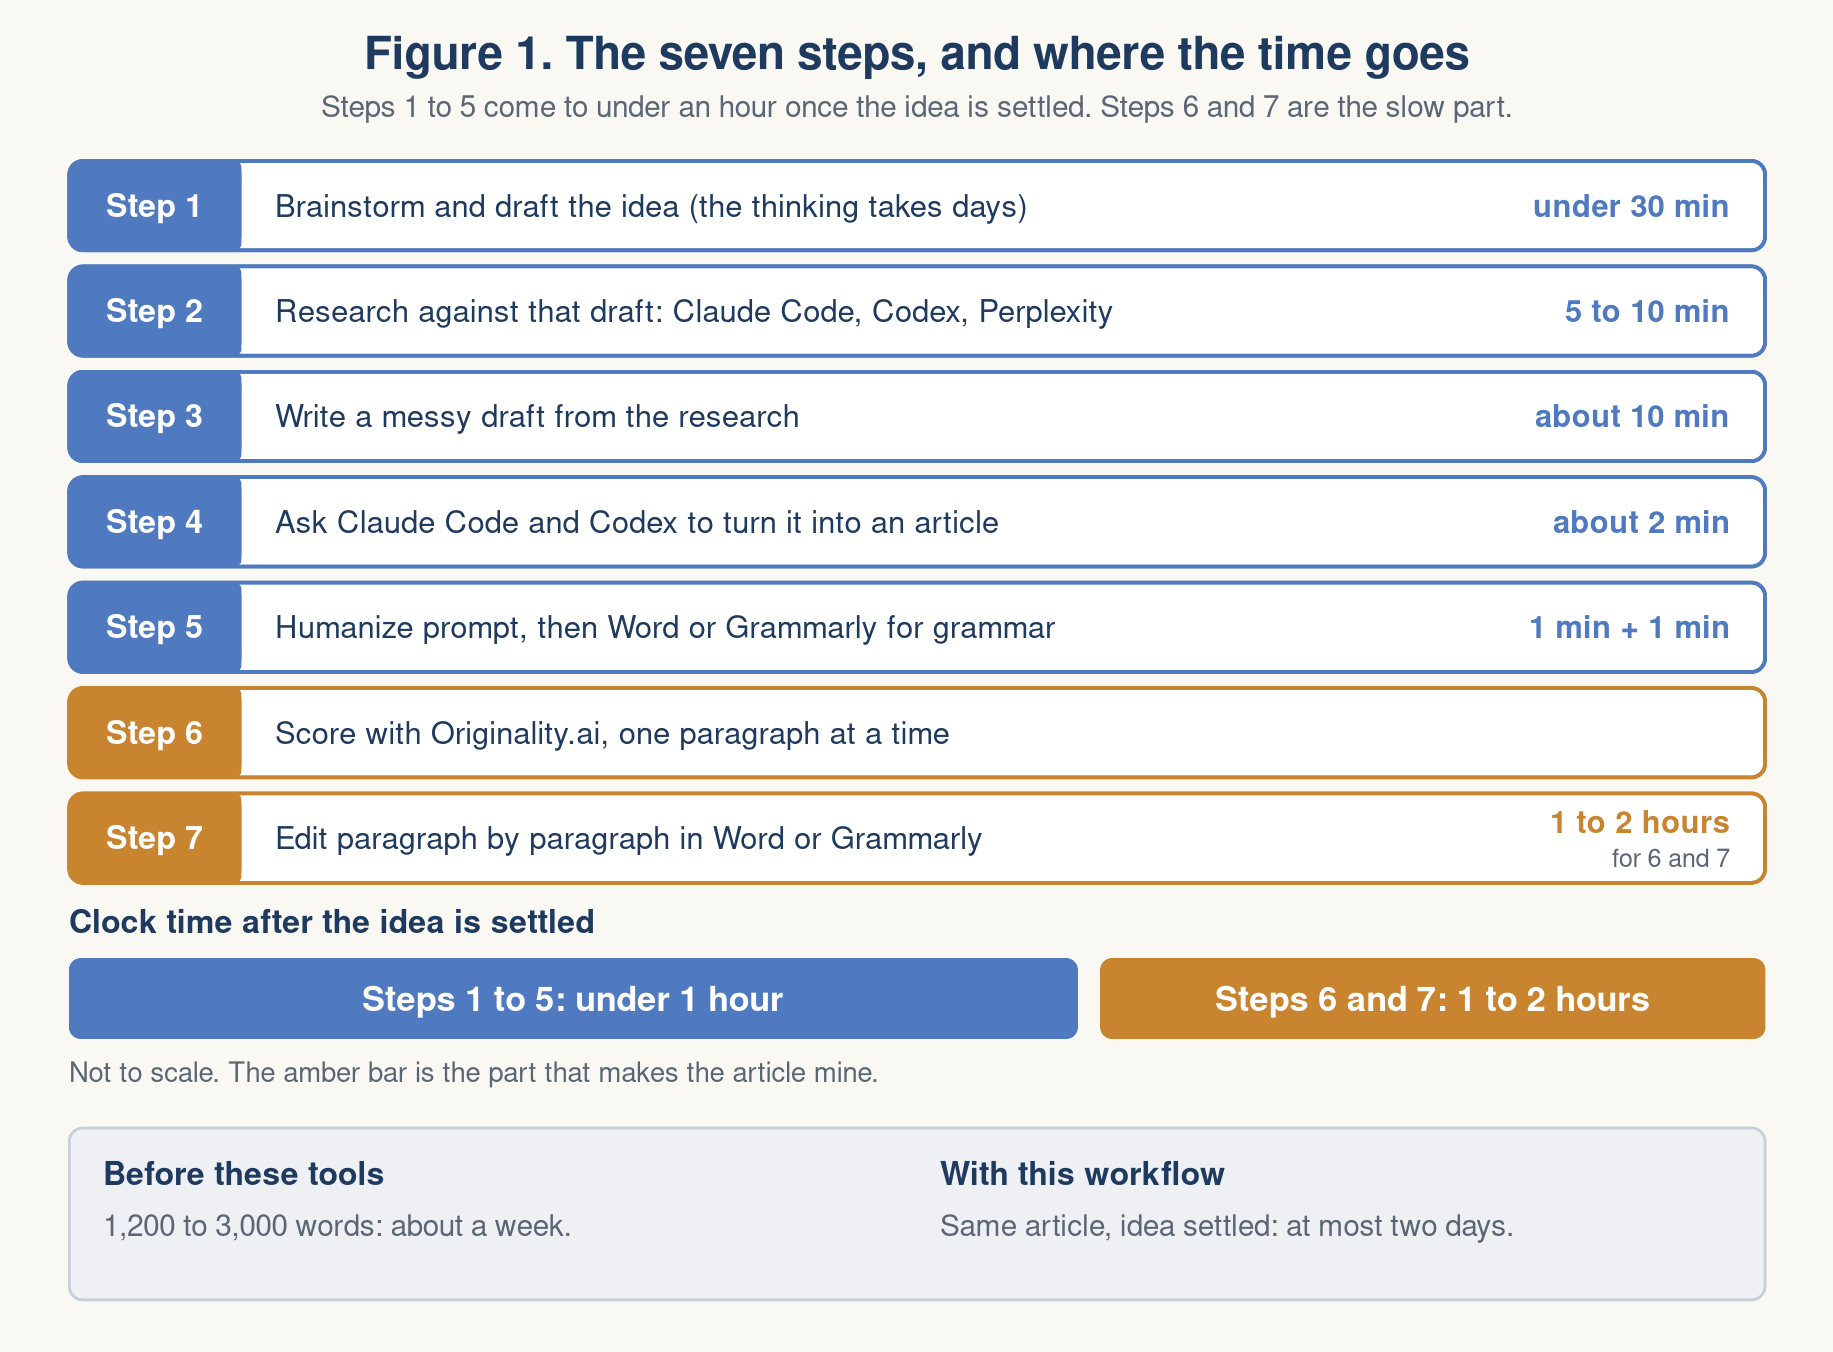
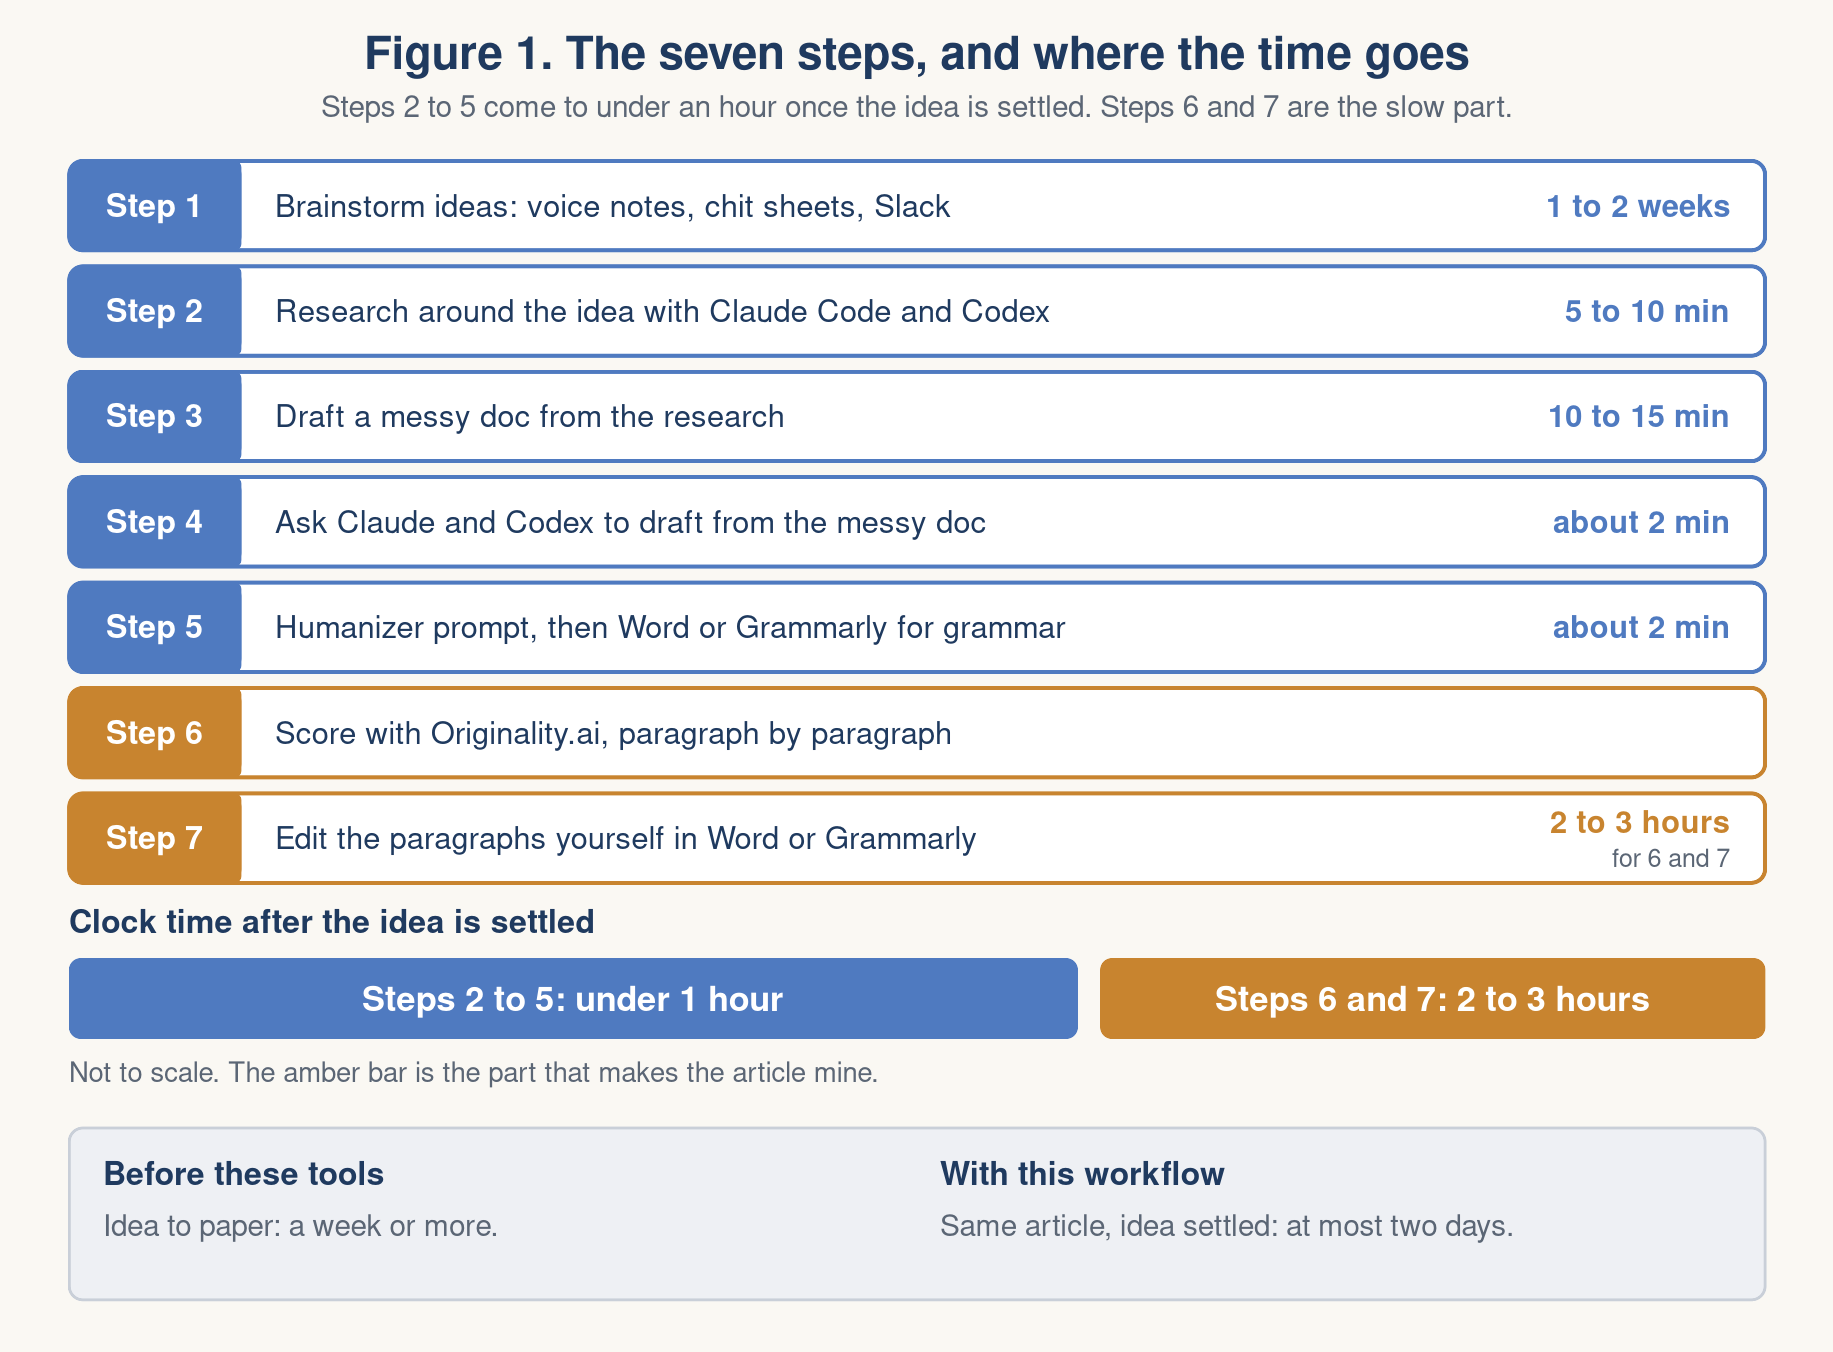
Article: fix step range, detector attribution, ACM claim, Grok name; Figure 1 matches the text

diff --git a/content/posts/humanize-with-ai.md b/content/posts/humanize-with-ai.md
@@ -11,7 +11,7 @@ images:
 
 ![A desk with a laptop showing a markdown draft in VS Code, a red pen, and a small robot handing over a page](/posts/humanize-with-ai/lead.png)
 
-*1,934 words · 10 min read*
+*1,929 words · 10 min read*
 
 *Disclaimer: This post reflects my personal views and does not represent the views of my employer or my community.*
 
@@ -41,13 +41,13 @@ As back in the golden writing days - when a typewriter was the tool that enabled
 6. Score the draft with an AI moderator paragraph by paragraph. I use [Originality.ai](https://originality.ai) as it is the best I have seen on the market. It has amazing features to highlight AI slop and plagiarism visually (and more importantly, it doesn't promise you options to fix the AI writing - because you can't really ask AI not to write AI; similarly, you can't ask a human being not to be a human).
 7. Edit the paragraphs in your editor (Word or Grammarly) till you get a personal and unique doc translating your creative idea into a unique document.
 
-Steps 1 to 5 take under an hour, while Steps 6 and 7 are the time sink and can easily take 2-3 hours. But the process is essential to make it a human-written article, instead of the dryness and verbosity that comes from blind AI write-ups.
+Steps 2 to 5 take under an hour, while Steps 6 and 7 are the time sink and can easily take 2-3 hours. But the process is essential to make it a human-written article, instead of the dryness and verbosity that comes from blind AI write-ups.
 
 **Explain it to a ten-year-old.** The robot can build the Lego set fast. I still take every brick off the table and put it back by hand. That is the slow part, and it is the part that makes it my house.
 
 ## Removing the AI Grammar From the Draft
 
-The AI detector is just a detector - it shows you where to look. Tools like Originality.ai use a custom language model [1] (funny, isn't it, an AI auditing another AI language - a swarm of agents: one is writing, the other is checking for errors), which measures the "perplexity" (how predictable words are - because AI uses token predictability based on a huge corpus of data) and "burstiness" (the variance of sentence length - because human writing is not consistent) [2]. If the text is predictable and structurally similar, the system flags it as machine-generated.
+The AI detector is just a detector - it shows you where to look. Tools like Originality.ai use a custom language model trained to tell the two apart [1] (funny, isn't it, an AI auditing another AI language - a swarm of agents: one is writing, the other is checking for errors). Detectors like GPTZero measure the "perplexity" (how predictable words are - because AI uses token predictability based on a huge corpus of data) and "burstiness" (the variance of sentence length - because human writing is not consistent) [2]. If the text is predictable and structurally similar, the system flags it as machine-generated.
 
 The human prompt I use (I wrote it for my writings, but there are better ones, I am sure - do use it, and if you like it, buy me a coffee when you are in Seattle) removes most of the easy patterns and the usual AI patterns - like dashes, usual AI patterns / Claudish / ChatGPTism - such as not X but Y [3]. It tells the model to keep everything concise.
 
@@ -63,11 +63,11 @@ Also, be careful about overreliance on AI detectors. I have seen many cases wher
 
 My answer is an emphatic No. A purist - I know many of them - would say the old way is better to write an article: one person and one keyboard being clacked continuously, like with an old typewriter. I understand that viewpoint (I love literature and am a voracious reader), but using AI writing will be the de facto writing tech and will, in fact, augment human creativity. The process of getting an idea down on paper (or the web) still needs you to audit, edit, and polish it. You will be surprised how well the process works.
 
-Major publishing institutions in our country have embraced Gen AI. [ACM](https://www.acm.org/publications/policies/new-acm-policy-on-authorship) - after some blocklisting of AI - now allows Gen AI to be used as long as it is disclosed, is respectful of the quality of the text, and there is no plagiarism [6]. [Nature Portfolio](https://www.nature.com/articles/d41586-023-00191-1) and [Medium](https://help.medium.com/hc/en-us/articles/22576852947223-Artificial-Intelligence-AI-content-policy) have adopted similar policies to a certain degree [7][8]. The line in the sand is that you are upfront about the disclosure of using AI and don't take credit for work that is not yours - aka plagiarism. I started that practice in all my articles, where I openly disclose the AI tools and reference where I am getting my materials. [Paul Graham](https://paulgraham.com/writes.html) said, "writing is thinking," and "there's a kind of thinking that can only be done by writing" [9]. I am 100% on board with this (and I love the writing culture Amazon - my previous employer - and OCI - my current employer - have: no projects are approved till it is written down and explained to a senior exec [10]).
+Major publishing institutions have embraced Gen AI. [ACM](https://www.acm.org/publications/policies/new-acm-policy-on-authorship) allows Gen AI to be used as long as it is disclosed, is respectful of the quality of the text, and there is no plagiarism [6]. [Nature Portfolio](https://www.nature.com/articles/d41586-023-00191-1) and [Medium](https://help.medium.com/hc/en-us/articles/22576852947223-Artificial-Intelligence-AI-content-policy) have adopted similar policies to a certain degree [7][8]. The line in the sand is that you are upfront about the disclosure of using AI and don't take credit for work that is not yours - aka plagiarism. I started that practice in all my articles, where I openly disclose the AI tools and reference where I am getting my materials. [Paul Graham](https://paulgraham.com/writes.html) said, "writing is thinking," and "there's a kind of thinking that can only be done by writing" [9]. I am 100% on board with this (and I love the writing culture Amazon - my previous employer - and OCI - my current employer - have: no projects are approved till it is written down and explained to a senior exec [10]).
 
 ## Use My Humanizer Prompt to Write Like the Great Thought Leaders of Our Decade
 
-My humanizer prompt from Step 5 is public. I have used it across all of the frontier models for my writings - Claude Code, Codex, and Grok Bot (Grok Bot is still new and still not there yet compared to Claude and Codex). The pack, with my voice prompt and four example voices, is in the [prompt-pack folder](/posts/humanize-with-ai/prompt-pack/README.md) next to this post, and in the [same folder on GitHub](https://github.com/rikkisnah/rikkisnah.github.io/tree/humanize-with-ai-article/static/posts/humanize-with-ai/prompt-pack). Start with [the ready-to-paste version in my voice](/posts/humanize-with-ai/prompt-pack/prompts/humanize-prompt-rik-kisnah.md).
+My humanizer prompt from Step 5 is public. I have used it across all of the frontier models for my writings - Claude Code, Codex, and Grok (Grok is still new and still not there yet compared to Claude and Codex). The pack, with my voice prompt and four example voices, is in the [prompt-pack folder](/posts/humanize-with-ai/prompt-pack/README.md) next to this post, and in the [same folder on GitHub](https://github.com/rikkisnah/rikkisnah.github.io/tree/humanize-with-ai-article/static/posts/humanize-with-ai/prompt-pack). Start with [the ready-to-paste version in my voice](/posts/humanize-with-ai/prompt-pack/prompts/humanize-prompt-rik-kisnah.md).
 
 Below, I will show its use with 4 great thought leaders and amazing writers by running one short, machine-sounding paragraph using the prompt and watching the responses in their voices. The leaders (I'm a big fan of them for their writing and thinking process): [Barack Obama](https://en.wikipedia.org/wiki/Barack_Obama), [Ernest Hemingway](https://en.wikipedia.org/wiki/Ernest_Hemingway), [William Faulkner](https://en.wikipedia.org/wiki/William_Faulkner), and [Dario Amodei](https://en.wikipedia.org/wiki/Dario_Amodei).
 
@@ -118,4 +118,4 @@ TL;DR: one prompt on a text; the prompt removes the AI-ism and adds the voice of
 9. Paul Graham, Writes and Write-Nots, October 2024: https://paulgraham.com/writes.html
 10. Jeff Bezos, 2017 Letter to Shareholders (six-page narrative memos instead of PowerPoint): https://www.aboutamazon.com/news/company-news/2017-letter-to-shareholders
 
-<!-- draft-claude.md: Rik's own edit of 2026-09-19 replaced the judged text. Claude only fixed typos, added references and links. Body word count (references excluded): 1,934 -->
+<!-- draft-claude.md: Rik's own edit of 2026-09-19 replaced the judged text. Claude only fixed typos, added references and links. Body word count (references excluded): 1,929 -->
